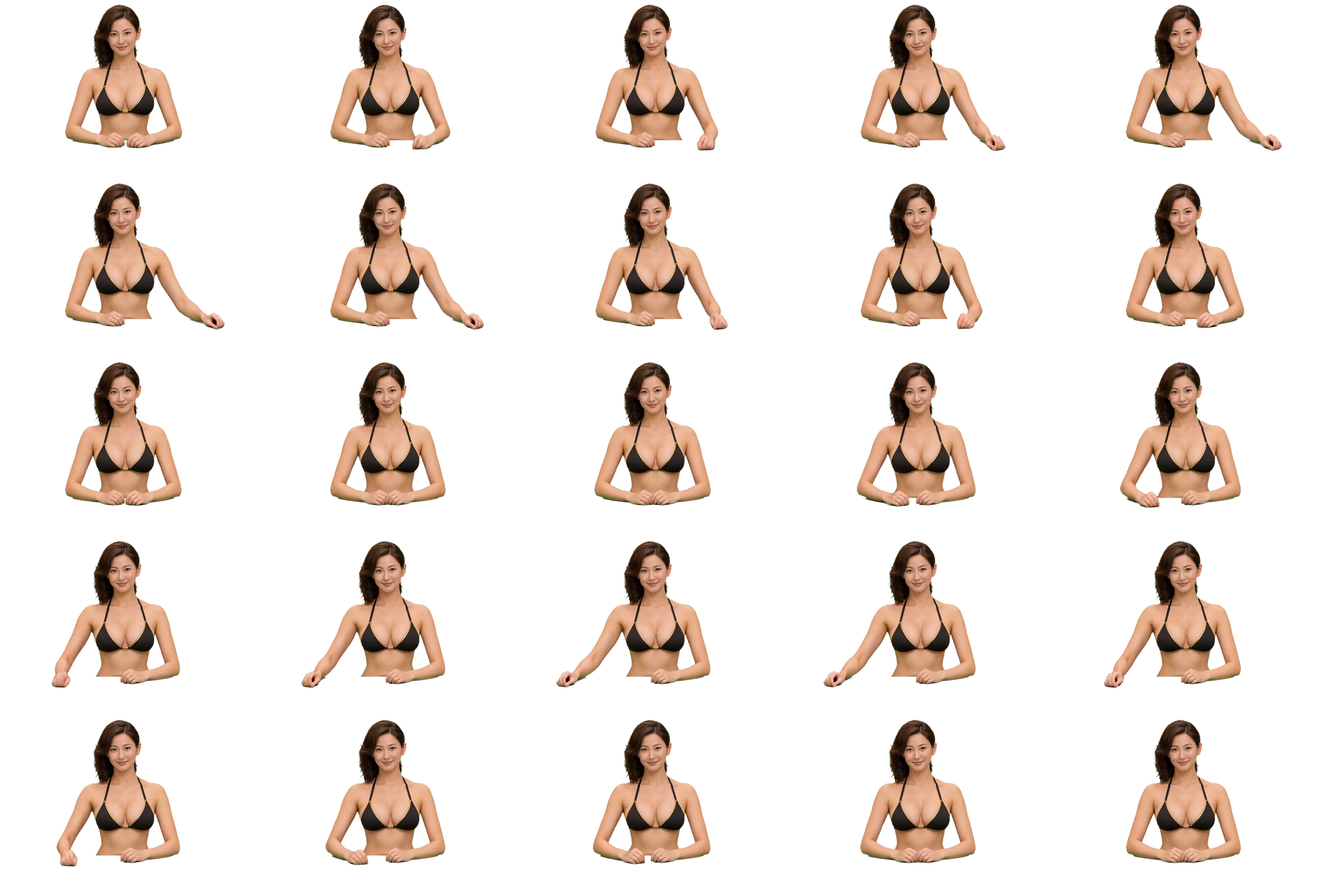
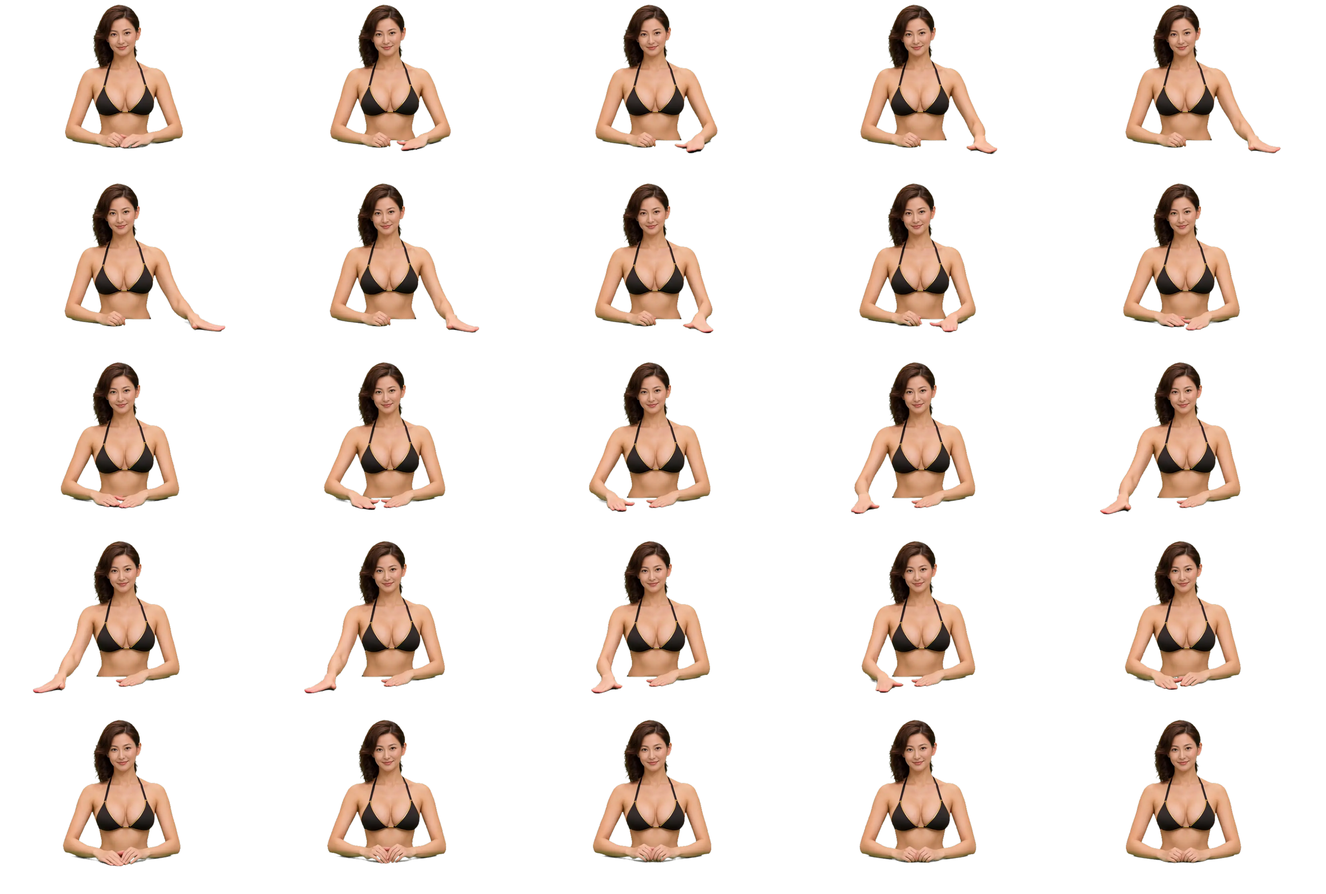
Dealers: new deal clips for all seven, card path re-measured (v0.24.3)
Claude-Session: https://claude.ai/code/session_011oS1hF5NfJ3QT3qcWv1JPQ

diff --git a/casino/index.html b/casino/index.html
@@ -2151,12 +2151,12 @@ html.ios-app .toasts { top: calc(env(safe-area-inset-top, 0px) + 86px); }
         <button class="gtile" type="button" id="lobbySlots"><span class="ico"><svg viewBox="0 0 48 48" aria-hidden="true" fill="none" stroke="currentColor" stroke-width="2.2" stroke-linecap="round" stroke-linejoin="round"><rect x="7" y="8" width="30" height="34" rx="4"/><rect x="11" y="15" width="22" height="13" rx="2"/><path d="M18.3 15v13M25.7 15v13"/><path d="M13 19h3.5l-2.2 6M20.3 19h3.5l-2.2 6M27.6 19h3.5l-2.2 6" stroke-width="1.6"/><path d="M41 12v14M41 26h-4"/><circle cx="41" cy="10" r="2.6" fill="currentColor"/><path d="M13 34h18" /></svg></span><b>老虎机<span class="lh-x">系列</span></b><small>龙腾财宝 · 宝石瀑布 · 水果转轮 · 深海寻宝 · 雷神之锤 · 幸运 7</small></button>
       </div>
     </div>
-    <div class="lfoot"><button class="verbtn" type="button" data-rules="verSheet">俱乐部 <b>v0.24.2</b> · 更新记录</button></div>
+    <div class="lfoot"><button class="verbtn" type="button" data-rules="verSheet">俱乐部 <b>v0.24.3</b> · 更新记录</button></div>
   </section>
 
   <div class="sheet" id="verSheet" hidden><div class="sheet-in" role="dialog" aria-label="更新记录">
     <div class="sheet-head"><h3>更新记录</h3><span class="note">大改版 +0.1.0 · 小版本 +0.0.1</span><button class="iconbtn" type="button" data-close aria-label="关闭">×</button></div>
-    <ol class="vlist"><li><b>v0.24.2</b><span>最后一局：荷官伸手从牌靴抽出黑色 LAST HAND 切牌卡，放在桌子左边，卡片平贴桌面，和闲、庄格子同一个角度（百家乐、龙虎、联机百家乐）</span></li><li><b>v0.24.1</b><span>荷官的腰和桌子贴合：桌面一直延伸到荷官身前，双手自然放在桌面上；联机百家乐的荷官画面放大（下注区、路单和玩家列更紧凑）</span></li><li><b>v0.24.0</b> <i class="vmaj">大改版</i><span>高清真人荷官回归：百家乐 A–D 桌、龙虎两桌和联机百家乐的 7 位荷官全部换成高清绿幕画面，待机眨眼，亲手从牌靴发牌、把牌推到闲庄格子，开牌后一扫收牌，牌跟着手走；身体不再抖动、闪烁或出白边</span></li><li><b>v0.23.0</b> <i class="vmaj">大改版</i><span>麻将新玩法「三人快打（飞）」：3 人、84 张（筒子、字牌、16 张花、4 张百搭飞），5 番起胡；飞可以代替碰、吃，摸到被代替的牌自动起飞，打出飞叫囤飞 +1 番；咬到、花杠、杠马上收钱并加爆，结算 = 番 × 番倍数 × 爆 × 1.5 / 2。所有麻将玩法加入碰、吃、杠、胡、自摸的大字动画</span></li><li><b>v0.22.11</b><span>大厅、百家乐、龙虎和联机百家乐上方加入滚动公告，按 × 可以关闭</span></li><li><b>v0.22.10</b><span>为了给大家更好的观感，真人荷官暂时下桌休息，全新高清版本已经在制作中，敬请期待！在此期间，百家乐、龙虎和联机百家乐会直接显示牌局画面，路单也一直摊开，开牌一目了然。</span></li><li><b>v0.22.9</b><span>荷官动画：清掉动画图的半透明杂点和浅色白边，不再闪烁；桌子凹口逐格贴着荷官的腰线，不再露出空隙或穿过桌面；待机时大多只眨眼，转头少很多</span></li><li><b>v0.22.8</b><span>修复荷官待机时露出相邻画面的问题。</span></li><li><b>v0.22.7</b><span>百家乐与龙虎荷官使用新版动画，龙虎采用同款荷官桌面、路单与牌局布局。</span></li><li><b>v0.22.6</b><span>修正：百家乐荷官动起来时闪烁和白边（清掉动画图里的半透明杂点和浅色描边；发牌、收牌两组动画预先载好，切换不再空白一下）</span></li><li><b>v0.22.5</b><span>百家乐：桌上的牌和闲、庄格子用同一个透视角度，牌平贴在格子里；小屏幕上牌也完整露出</span></li><li><b>v0.22.4</b><span>百家乐：去掉「试发一局」，倒数和牌局状态移到荷官画面右上角，删掉中间那一行让荷官画面更大；桌子凹口改成圆角</span></li><li><b>v0.22.3</b><span>百家乐牌桌改成发牌台形状：两侧桌面延伸到荷官身后，中间凹进去让荷官站在里面；闲、庄格子和牌都跟桌面同一个透视角度</span></li><li><b>v0.22.2</b><span>百家乐和联机百家乐：桌边、牌靴和闲庄牌区对齐荷官的双手，任何屏幕大小都不会错位；荷官画面按屏幕自动调整高度，整页一屏放得下；联机房的聊天列恢复显示</span></li><li><b>v0.22.1</b><span>修正：十三张结算后四家名牌旁的输赢不会消失；联机百家乐开完牌马上更新每个人的输赢</span></li><li><b>v0.22.0</b> <i class="vmaj">大改版</i><span>新游戏「麻将」：港式、四川血战到底、台湾十六张，可练习对 AI 或联机；十三张改成立体牌桌：推荐摆法、牌型快捷键、对调、开始比牌、打枪瞄准开枪、本局结算明细</span></li><li><b>v0.21.2</b><span>百家乐 A、B、C、D 桌及联机房新增五位荷官，发牌和收牌使用每秒 24 张画面，牌局与路单自动翻转。</span></li><li><b>v0.21.1</b><span>百家乐加入双手发牌和右侧牌靴，荷官桌面与牌局同步显示白色牌面。老虎机重绘机台，并更新吉祥物待机和奖励动画。</span></li><li><b>v0.21.0</b> <i class="vmaj">大改版</i><span>新游戏「十三张」：练习桌对 3 个 AI，或开房间和朋友联机（2–4 人，空位 AI 补上）；点选摆牌、自动摆牌、报到、逐道比牌、打枪、全垒打</span></li><li><b>v0.20.2</b><span>百家乐、龙虎、联机百家乐：结果出来 1.5 秒后把牌收成一叠往左边滑走，然后才开始倒数；其他牌桌在下一局发牌前收牌</span></li><li><b>v0.20.1</b><span>联机百家乐加上大眼仔、小路、曱甴路、闲庄和局数，以及 P / B 问路</span></li><li><b>v0.20.0</b><span>老虎机：转轴停下有弹跳和闪光；差一个就进特殊奖励时最后几列放慢发光；大奖动画随金额升级（大奖→巨奖→超级巨奖→史诗大奖）并按机器换颜色；待机时转轴窗口有扫光，深海有鱼影游过，水果机飘起柠檬橙子片</span></li><li><b>v0.19.1</b><span>大奖画面的雷神和金龙去掉白边并一直循环动；雷神免费旋转时标题不再跟着移动</span></li><li><b>v0.19.0</b><span>每台老虎机有自己的中奖特效：金龙喷火球、宝石迸出碎光、水果溅出果汁、深海涟漪和气泡、幸运 7 霓虹烟花；大奖再加全屏特效</span></li><li><b>v0.18.9</b><span>所有老虎机标题改成印在机身上的金属渐层字，不再有方框</span></li><li><b>v0.18.8</b><span>金龙和雷神插画放大，贴在转轴边框上方；龙腾财宝四个头奖排成一行</span></li><li><b>v0.18.7</b><span>优化：龙腾财宝、雷神之锤自动放进一屏；待机动画缩小约 2/3，打开机台才下载；德州摊牌写出完整牌型与踢脚、亮出赢家的 5 张牌；整理重复程序</span></li><li><b>v0.18.6</b><span>雷神之锤：雷球被闪电劈中后才亮起并显示倍数</span></li><li><b>v0.18.5</b><span>金龙和雷神换上新版待机动画与 1.5 秒逐帧奖励动画。</span></li><li><b>v0.18.4</b><span>金龙和雷神改成待机动画，中奖时才播放特殊动画</span></li><li><b>v0.18.3</b><span>正面雷神逐帧挥锤，金龙与雷神加入特殊奖励动画。</span></li><li><b>v0.18.2</b><span>金龙与雷神移到转轴上方，恢复转轴尺寸，加入金龙蜿蜒吐焰与雷神挥锤动画。</span></li><li><b>v0.18.1</b><span>重绘「龙腾财宝」和「雷神之锤」机台，加入金龙游动、雷神守望和旋转特效。</span></li><li><b>v0.18.0</b> <i class="vmaj">大改版</i><span>新老虎机「雷神之锤」：6×5 任意位置中奖、连环消除、雷球倍数 ×500、免费旋转总倍数累积、买免费旋转、加注，闪电特效</span></li><li><b>v0.17.2</b><span>百家乐、龙虎、联机百家乐：牌靴快用完时宣布「最后一局」（动画提醒），那一局结束后才换牌靴</span></li><li><b>v0.17.1</b><span>背景音乐全部换成爵士乐（8 首）；可以从手机加入自己的歌曲</span></li><li><b>v0.17.0</b> <i class="vmaj">大改版</i><span>德州联机房：所有人按「准备」才开始；AI 荷官发牌动画（底牌一张张发到每个座位，公共牌飞到桌上翻开）</span></li><li><b>v0.16.4</b><span>老虎机的免费旋转和奖金转盘要玩家点「开始」才开始（自动旋转时 2 秒后自动开始）；修正水果转轮奖金转盘在手机上不转</span></li><li><b>v0.16.3</b><span>水果转轮奖金转盘、深海寻宝免费旋转更容易触发（回报率仍约 96%）</span></li><li><b>v0.16.2</b><span>修正：iPhone 上背景音乐音量调节无效</span></li><li><b>v0.16.1</b><span>联机房间和练习桌加上开始 / 暂停（房主控制）</span></li><li><b>v0.16.0</b> <i class="vmaj">大改版</i><span>背景音乐（5 首赌场酒廊爵士，可开关、选曲、调音量）；轮盘、老虎机、金币、宝石的真实音效</span></li><li><b>v0.15.1</b><span>牛牛：对子比点数大，都是对子就比对子大小</span></li><li><b>v0.15.0</b> <i class="vmaj">大改版</i><span>加入真实录音音效：筹码、发牌、放牌、洗牌、派彩筹码声（Kenney Casino Audio，CC0）</span></li><li><b>v0.14.9</b><span>音效重做：筹码、发牌、翻牌、倒数、转轮、中奖都更像真实的声音，加上房间回音</span></li><li><b>v0.14.8</b><span>大厅换牌靴时，动画结束后才显示烧了几张</span></li><li><b>v0.14.7</b><span>修正：联机百家乐房主画面的中奖框不会熄灭、路单比牌先出</span></li><li><b>v0.14.6</b><span>清理不再使用的旧样式和旧存档转换代码</span></li><li><b>v0.14.5</b><span>龙虎的下三路和问路也改成红 / 金</span></li><li><b>v0.14.4</b><span>修正：联机百家乐和大厅里的牌桌，要等牌发完才公布结果、路单和输赢</span></li><li><b>v0.14.3</b><span>龙虎改成龙红、虎金；和与同花和合成一个上下对半的青色圆</span></li><li><b>v0.14.2</b><span>龙虎加上问路（预测）按钮；龙虎点数直接显示 A、J、Q、K</span></li><li><b>v0.14.1</b><span>联机房间可以打字聊天，有未读提示</span></li><li><b>v0.14.0</b> <i class="vmaj">大改版</i><span>德州练习桌：一个人和 1–8 个 AI 对打；联机合并成一个入口，输入房间号自动认出游戏；左上角固定的金色「大厅」按钮</span></li><li><b>v0.13.0</b> <i class="vmaj">大改版</i><span>德州扑克联机房：玩家对玩家、AI 荷官发牌、最多 9 人、无限注、边池、抽水 5%；百家乐和龙虎换桌时桌号直接写在牌桌中间；修正离开联机房时筹码退两次</span></li><li><b>v0.12.0</b> <i class="vmaj">大改版</i><span>联机房间：开房间拿 6 位房间号，和朋友同桌玩百家乐，同一副牌、同一条路，看得到彼此的下注和输赢，可以发表情</span></li><li><b>v0.11.1</b><span>牛牛加入对子（组成牛点的两张是对子赔 2 倍）；大厅恢复完整排版，可以上下滑动</span></li><li><b>v0.11.0</b> <i class="vmaj">大改版</i><span>新老虎机「深海寻宝」：潜水员收集宝箱、升级倍数到 ×10；每台老虎机加上跑马灯、背景特效和中奖金币</span></li><li><b>v0.10.0</b> <i class="vmaj">大改版</i><span>新游戏：龙虎（2 桌）、牛牛、老虎机「水果转轮」；换牌靴动画约 20 秒；老虎机按钮显示当前机台图标，左右滑动只换机台</span></li><li><b>v0.9.3</b><span>主动洗牌时大厅也能看到洗牌、装靴、烧牌过程</span></li><li><b>v0.9.2</b><span>发牌中也可以换桌；大厅清楚显示烧牌张数</span></li><li><b>v0.9.1</b><span>百家乐和老虎机滑动时画面跟手切换；大厅显示换牌靴动画</span></li><li><b>v0.9.0</b> <i class="vmaj">大改版</i><span>新老虎机「宝石瀑布」：6×5 任意位置中奖、连环消除、倍数阶梯</span></li><li><b>v0.8.10</b><span>加上版本号与更新记录</span></li><li><b>v0.8.9</b><span>金币锁定重转更易出金币，转动更久</span></li><li><b>v0.8.8</b><span>金币锁定更常出现，金币金额调低</span></li><li><b>v0.8.7</b><span>GRAND、MAJOR 数字滚动；大厅选机弹窗</span></li><li><b>v0.8.6</b><span>龙腾财宝中奖率提高；选机弹窗</span></li><li><b>v0.8.5</b><span>金币锁定由玩家旋转，空格有转轮效果</span></li><li><b>v0.8.4</b><span>老虎机直接选每局金额</span></li><li><b>v0.8.3</b><span>老虎机合并为系列；大奖动画 20 秒</span></li><li><b>v0.8.2</b><span>老虎机符号重绘为写实风格</span></li><li><b>v0.8.1</b><span>老虎机加速；大奖动画</span></li><li><b>v0.8.0</b> <i class="vmaj">大改版</i><span>新老虎机「龙腾财宝」：243 路、金币锁定、四级头奖</span></li><li><b>v0.7.2</b><span>老虎机自动旋转</span></li><li><b>v0.7.1</b><span>去掉重置 10,000 按钮</span></li><li><b>v0.7.0</b> <i class="vmaj">大改版</i><span>新游戏：德州扑克、老虎机；滑动换桌；大厅图标</span></li><li><b>v0.6.2</b><span>离开牌桌也照常开局并提示结果</span></li><li><b>v0.6.1</b><span>改名「俱乐部」；换牌靴动画与烧牌</span></li><li><b>v0.6.0</b> <i class="vmaj">大改版</i><span>黑金配色与新图标</span></li><li><b>v0.5.2</b><span>每个游戏加「重复」下注</span></li><li><b>v0.5.1</b><span>+100 万余额按钮；10k、100k 筹码</span></li><li><b>v0.5.0</b> <i class="vmaj">大改版</i><span>所有游戏统一界面；百家乐 4 桌；新游戏三张牌</span></li><li><b>v0.4.4</b><span>修 iPhone 主屏幕底部被裁</span></li><li><b>v0.4.3</b><span>修 iPhone 主屏幕顶部被挡</span></li><li><b>v0.4.2</b><span>21点也从牌靴发牌；修主屏幕位置</span></li><li><b>v0.4.1</b><span>音效；发牌从牌靴飞出并翻牌；筹码居中</span></li><li><b>v0.4.0</b> <i class="vmaj">大改版</i><span>百家乐改成真人桌布局：下三路、问路、龙宝、完美对子</span></li><li><b>v0.3.1</b><span>百家乐改为 15 秒自动开局</span></li><li><b>v0.3.0</b> <i class="vmaj">大改版</i><span>做成可加到主屏幕的 App（离线可用）</span></li><li><b>v0.2.1</b><span>大厅显示路单、路单保存、洗牌按钮</span></li><li><b>v0.2.0</b> <i class="vmaj">大改版</i><span>重新布局：整个画面一屏不用滑动</span></li><li><b>v0.1.4</b><span>21点投降；路单移到上方；筹码栏固定底部</span></li><li><b>v0.1.3</b><span>下注处显示筹码叠；百家乐 30 秒自动开局</span></li><li><b>v0.1.2</b><span>轮盘加分注、街注、角注、线注；修竖屏比例</span></li><li><b>v0.1.1</b><span>百家乐不下注也可发牌，改为大路</span></li><li><b>v0.1.0</b> <i class="vmaj">大改版</i><span>首版：百家乐、21点、轮盘，虚拟筹码</span></li></ol>
+    <ol class="vlist"><li><b>v0.24.3</b><span>7 位荷官换上新版发牌动作：右手到牌靴取牌，把牌放到身前桌面再推进闲、庄（龙、虎）格子，牌跟着手走</span></li><li><b>v0.24.2</b><span>最后一局：荷官伸手从牌靴抽出黑色 LAST HAND 切牌卡，放在桌子左边，卡片平贴桌面，和闲、庄格子同一个角度（百家乐、龙虎、联机百家乐）</span></li><li><b>v0.24.1</b><span>荷官的腰和桌子贴合：桌面一直延伸到荷官身前，双手自然放在桌面上；联机百家乐的荷官画面放大（下注区、路单和玩家列更紧凑）</span></li><li><b>v0.24.0</b> <i class="vmaj">大改版</i><span>高清真人荷官回归：百家乐 A–D 桌、龙虎两桌和联机百家乐的 7 位荷官全部换成高清绿幕画面，待机眨眼，亲手从牌靴发牌、把牌推到闲庄格子，开牌后一扫收牌，牌跟着手走；身体不再抖动、闪烁或出白边</span></li><li><b>v0.23.0</b> <i class="vmaj">大改版</i><span>麻将新玩法「三人快打（飞）」：3 人、84 张（筒子、字牌、16 张花、4 张百搭飞），5 番起胡；飞可以代替碰、吃，摸到被代替的牌自动起飞，打出飞叫囤飞 +1 番；咬到、花杠、杠马上收钱并加爆，结算 = 番 × 番倍数 × 爆 × 1.5 / 2。所有麻将玩法加入碰、吃、杠、胡、自摸的大字动画</span></li><li><b>v0.22.11</b><span>大厅、百家乐、龙虎和联机百家乐上方加入滚动公告，按 × 可以关闭</span></li><li><b>v0.22.10</b><span>为了给大家更好的观感，真人荷官暂时下桌休息，全新高清版本已经在制作中，敬请期待！在此期间，百家乐、龙虎和联机百家乐会直接显示牌局画面，路单也一直摊开，开牌一目了然。</span></li><li><b>v0.22.9</b><span>荷官动画：清掉动画图的半透明杂点和浅色白边，不再闪烁；桌子凹口逐格贴着荷官的腰线，不再露出空隙或穿过桌面；待机时大多只眨眼，转头少很多</span></li><li><b>v0.22.8</b><span>修复荷官待机时露出相邻画面的问题。</span></li><li><b>v0.22.7</b><span>百家乐与龙虎荷官使用新版动画，龙虎采用同款荷官桌面、路单与牌局布局。</span></li><li><b>v0.22.6</b><span>修正：百家乐荷官动起来时闪烁和白边（清掉动画图里的半透明杂点和浅色描边；发牌、收牌两组动画预先载好，切换不再空白一下）</span></li><li><b>v0.22.5</b><span>百家乐：桌上的牌和闲、庄格子用同一个透视角度，牌平贴在格子里；小屏幕上牌也完整露出</span></li><li><b>v0.22.4</b><span>百家乐：去掉「试发一局」，倒数和牌局状态移到荷官画面右上角，删掉中间那一行让荷官画面更大；桌子凹口改成圆角</span></li><li><b>v0.22.3</b><span>百家乐牌桌改成发牌台形状：两侧桌面延伸到荷官身后，中间凹进去让荷官站在里面；闲、庄格子和牌都跟桌面同一个透视角度</span></li><li><b>v0.22.2</b><span>百家乐和联机百家乐：桌边、牌靴和闲庄牌区对齐荷官的双手，任何屏幕大小都不会错位；荷官画面按屏幕自动调整高度，整页一屏放得下；联机房的聊天列恢复显示</span></li><li><b>v0.22.1</b><span>修正：十三张结算后四家名牌旁的输赢不会消失；联机百家乐开完牌马上更新每个人的输赢</span></li><li><b>v0.22.0</b> <i class="vmaj">大改版</i><span>新游戏「麻将」：港式、四川血战到底、台湾十六张，可练习对 AI 或联机；十三张改成立体牌桌：推荐摆法、牌型快捷键、对调、开始比牌、打枪瞄准开枪、本局结算明细</span></li><li><b>v0.21.2</b><span>百家乐 A、B、C、D 桌及联机房新增五位荷官，发牌和收牌使用每秒 24 张画面，牌局与路单自动翻转。</span></li><li><b>v0.21.1</b><span>百家乐加入双手发牌和右侧牌靴，荷官桌面与牌局同步显示白色牌面。老虎机重绘机台，并更新吉祥物待机和奖励动画。</span></li><li><b>v0.21.0</b> <i class="vmaj">大改版</i><span>新游戏「十三张」：练习桌对 3 个 AI，或开房间和朋友联机（2–4 人，空位 AI 补上）；点选摆牌、自动摆牌、报到、逐道比牌、打枪、全垒打</span></li><li><b>v0.20.2</b><span>百家乐、龙虎、联机百家乐：结果出来 1.5 秒后把牌收成一叠往左边滑走，然后才开始倒数；其他牌桌在下一局发牌前收牌</span></li><li><b>v0.20.1</b><span>联机百家乐加上大眼仔、小路、曱甴路、闲庄和局数，以及 P / B 问路</span></li><li><b>v0.20.0</b><span>老虎机：转轴停下有弹跳和闪光；差一个就进特殊奖励时最后几列放慢发光；大奖动画随金额升级（大奖→巨奖→超级巨奖→史诗大奖）并按机器换颜色；待机时转轴窗口有扫光，深海有鱼影游过，水果机飘起柠檬橙子片</span></li><li><b>v0.19.1</b><span>大奖画面的雷神和金龙去掉白边并一直循环动；雷神免费旋转时标题不再跟着移动</span></li><li><b>v0.19.0</b><span>每台老虎机有自己的中奖特效：金龙喷火球、宝石迸出碎光、水果溅出果汁、深海涟漪和气泡、幸运 7 霓虹烟花；大奖再加全屏特效</span></li><li><b>v0.18.9</b><span>所有老虎机标题改成印在机身上的金属渐层字，不再有方框</span></li><li><b>v0.18.8</b><span>金龙和雷神插画放大，贴在转轴边框上方；龙腾财宝四个头奖排成一行</span></li><li><b>v0.18.7</b><span>优化：龙腾财宝、雷神之锤自动放进一屏；待机动画缩小约 2/3，打开机台才下载；德州摊牌写出完整牌型与踢脚、亮出赢家的 5 张牌；整理重复程序</span></li><li><b>v0.18.6</b><span>雷神之锤：雷球被闪电劈中后才亮起并显示倍数</span></li><li><b>v0.18.5</b><span>金龙和雷神换上新版待机动画与 1.5 秒逐帧奖励动画。</span></li><li><b>v0.18.4</b><span>金龙和雷神改成待机动画，中奖时才播放特殊动画</span></li><li><b>v0.18.3</b><span>正面雷神逐帧挥锤，金龙与雷神加入特殊奖励动画。</span></li><li><b>v0.18.2</b><span>金龙与雷神移到转轴上方，恢复转轴尺寸，加入金龙蜿蜒吐焰与雷神挥锤动画。</span></li><li><b>v0.18.1</b><span>重绘「龙腾财宝」和「雷神之锤」机台，加入金龙游动、雷神守望和旋转特效。</span></li><li><b>v0.18.0</b> <i class="vmaj">大改版</i><span>新老虎机「雷神之锤」：6×5 任意位置中奖、连环消除、雷球倍数 ×500、免费旋转总倍数累积、买免费旋转、加注，闪电特效</span></li><li><b>v0.17.2</b><span>百家乐、龙虎、联机百家乐：牌靴快用完时宣布「最后一局」（动画提醒），那一局结束后才换牌靴</span></li><li><b>v0.17.1</b><span>背景音乐全部换成爵士乐（8 首）；可以从手机加入自己的歌曲</span></li><li><b>v0.17.0</b> <i class="vmaj">大改版</i><span>德州联机房：所有人按「准备」才开始；AI 荷官发牌动画（底牌一张张发到每个座位，公共牌飞到桌上翻开）</span></li><li><b>v0.16.4</b><span>老虎机的免费旋转和奖金转盘要玩家点「开始」才开始（自动旋转时 2 秒后自动开始）；修正水果转轮奖金转盘在手机上不转</span></li><li><b>v0.16.3</b><span>水果转轮奖金转盘、深海寻宝免费旋转更容易触发（回报率仍约 96%）</span></li><li><b>v0.16.2</b><span>修正：iPhone 上背景音乐音量调节无效</span></li><li><b>v0.16.1</b><span>联机房间和练习桌加上开始 / 暂停（房主控制）</span></li><li><b>v0.16.0</b> <i class="vmaj">大改版</i><span>背景音乐（5 首赌场酒廊爵士，可开关、选曲、调音量）；轮盘、老虎机、金币、宝石的真实音效</span></li><li><b>v0.15.1</b><span>牛牛：对子比点数大，都是对子就比对子大小</span></li><li><b>v0.15.0</b> <i class="vmaj">大改版</i><span>加入真实录音音效：筹码、发牌、放牌、洗牌、派彩筹码声（Kenney Casino Audio，CC0）</span></li><li><b>v0.14.9</b><span>音效重做：筹码、发牌、翻牌、倒数、转轮、中奖都更像真实的声音，加上房间回音</span></li><li><b>v0.14.8</b><span>大厅换牌靴时，动画结束后才显示烧了几张</span></li><li><b>v0.14.7</b><span>修正：联机百家乐房主画面的中奖框不会熄灭、路单比牌先出</span></li><li><b>v0.14.6</b><span>清理不再使用的旧样式和旧存档转换代码</span></li><li><b>v0.14.5</b><span>龙虎的下三路和问路也改成红 / 金</span></li><li><b>v0.14.4</b><span>修正：联机百家乐和大厅里的牌桌，要等牌发完才公布结果、路单和输赢</span></li><li><b>v0.14.3</b><span>龙虎改成龙红、虎金；和与同花和合成一个上下对半的青色圆</span></li><li><b>v0.14.2</b><span>龙虎加上问路（预测）按钮；龙虎点数直接显示 A、J、Q、K</span></li><li><b>v0.14.1</b><span>联机房间可以打字聊天，有未读提示</span></li><li><b>v0.14.0</b> <i class="vmaj">大改版</i><span>德州练习桌：一个人和 1–8 个 AI 对打；联机合并成一个入口，输入房间号自动认出游戏；左上角固定的金色「大厅」按钮</span></li><li><b>v0.13.0</b> <i class="vmaj">大改版</i><span>德州扑克联机房：玩家对玩家、AI 荷官发牌、最多 9 人、无限注、边池、抽水 5%；百家乐和龙虎换桌时桌号直接写在牌桌中间；修正离开联机房时筹码退两次</span></li><li><b>v0.12.0</b> <i class="vmaj">大改版</i><span>联机房间：开房间拿 6 位房间号，和朋友同桌玩百家乐，同一副牌、同一条路，看得到彼此的下注和输赢，可以发表情</span></li><li><b>v0.11.1</b><span>牛牛加入对子（组成牛点的两张是对子赔 2 倍）；大厅恢复完整排版，可以上下滑动</span></li><li><b>v0.11.0</b> <i class="vmaj">大改版</i><span>新老虎机「深海寻宝」：潜水员收集宝箱、升级倍数到 ×10；每台老虎机加上跑马灯、背景特效和中奖金币</span></li><li><b>v0.10.0</b> <i class="vmaj">大改版</i><span>新游戏：龙虎（2 桌）、牛牛、老虎机「水果转轮」；换牌靴动画约 20 秒；老虎机按钮显示当前机台图标，左右滑动只换机台</span></li><li><b>v0.9.3</b><span>主动洗牌时大厅也能看到洗牌、装靴、烧牌过程</span></li><li><b>v0.9.2</b><span>发牌中也可以换桌；大厅清楚显示烧牌张数</span></li><li><b>v0.9.1</b><span>百家乐和老虎机滑动时画面跟手切换；大厅显示换牌靴动画</span></li><li><b>v0.9.0</b> <i class="vmaj">大改版</i><span>新老虎机「宝石瀑布」：6×5 任意位置中奖、连环消除、倍数阶梯</span></li><li><b>v0.8.10</b><span>加上版本号与更新记录</span></li><li><b>v0.8.9</b><span>金币锁定重转更易出金币，转动更久</span></li><li><b>v0.8.8</b><span>金币锁定更常出现，金币金额调低</span></li><li><b>v0.8.7</b><span>GRAND、MAJOR 数字滚动；大厅选机弹窗</span></li><li><b>v0.8.6</b><span>龙腾财宝中奖率提高；选机弹窗</span></li><li><b>v0.8.5</b><span>金币锁定由玩家旋转，空格有转轮效果</span></li><li><b>v0.8.4</b><span>老虎机直接选每局金额</span></li><li><b>v0.8.3</b><span>老虎机合并为系列；大奖动画 20 秒</span></li><li><b>v0.8.2</b><span>老虎机符号重绘为写实风格</span></li><li><b>v0.8.1</b><span>老虎机加速；大奖动画</span></li><li><b>v0.8.0</b> <i class="vmaj">大改版</i><span>新老虎机「龙腾财宝」：243 路、金币锁定、四级头奖</span></li><li><b>v0.7.2</b><span>老虎机自动旋转</span></li><li><b>v0.7.1</b><span>去掉重置 10,000 按钮</span></li><li><b>v0.7.0</b> <i class="vmaj">大改版</i><span>新游戏：德州扑克、老虎机；滑动换桌；大厅图标</span></li><li><b>v0.6.2</b><span>离开牌桌也照常开局并提示结果</span></li><li><b>v0.6.1</b><span>改名「俱乐部」；换牌靴动画与烧牌</span></li><li><b>v0.6.0</b> <i class="vmaj">大改版</i><span>黑金配色与新图标</span></li><li><b>v0.5.2</b><span>每个游戏加「重复」下注</span></li><li><b>v0.5.1</b><span>+100 万余额按钮；10k、100k 筹码</span></li><li><b>v0.5.0</b> <i class="vmaj">大改版</i><span>所有游戏统一界面；百家乐 4 桌；新游戏三张牌</span></li><li><b>v0.4.4</b><span>修 iPhone 主屏幕底部被裁</span></li><li><b>v0.4.3</b><span>修 iPhone 主屏幕顶部被挡</span></li><li><b>v0.4.2</b><span>21点也从牌靴发牌；修主屏幕位置</span></li><li><b>v0.4.1</b><span>音效；发牌从牌靴飞出并翻牌；筹码居中</span></li><li><b>v0.4.0</b> <i class="vmaj">大改版</i><span>百家乐改成真人桌布局：下三路、问路、龙宝、完美对子</span></li><li><b>v0.3.1</b><span>百家乐改为 15 秒自动开局</span></li><li><b>v0.3.0</b> <i class="vmaj">大改版</i><span>做成可加到主屏幕的 App（离线可用）</span></li><li><b>v0.2.1</b><span>大厅显示路单、路单保存、洗牌按钮</span></li><li><b>v0.2.0</b> <i class="vmaj">大改版</i><span>重新布局：整个画面一屏不用滑动</span></li><li><b>v0.1.4</b><span>21点投降；路单移到上方；筹码栏固定底部</span></li><li><b>v0.1.3</b><span>下注处显示筹码叠；百家乐 30 秒自动开局</span></li><li><b>v0.1.2</b><span>轮盘加分注、街注、角注、线注；修竖屏比例</span></li><li><b>v0.1.1</b><span>百家乐不下注也可发牌，改为大路</span></li><li><b>v0.1.0</b> <i class="vmaj">大改版</i><span>首版：百家乐、21点、轮盘，虚拟筹码</span></li></ol>
     <p class="note" style="margin-top:10px">音乐与音效的作者和授权：点右上角 ♪ 查看。</p>
   </div></div>
 
@@ -3976,23 +3976,24 @@ html.ios-app .toasts { top: calc(env(safe-area-inset-top, 0px) + 86px); }
   // (25 frames each over one second, drawn over the whole canvas). The canvas is 12% wider than the portrait box so her
   // reaching hands stay inside. Frame space 1183 × 798; cut = the far edge of the table in her video (row of 266): the felt comes up to it and her
   // forearms and hands rest on top of it, so there is never a gap between her waist and the table.
-  // hands: [clip frame, x, y] fractions of the canvas — the card leaves the shoe at her right fingertips and is carried left;
+  // hands: [clip frame, x, y] fractions of the canvas — the card leaves the shoe at her right fingertips and is laid down
+  // where her hand presses it onto the felt, then slides into its box;
   // shoe: fraction of the portrait box; sweep: her left fingertips while she collects, frame by frame.
   const DEALER_PERSON = true;
   const DEALER_V3 = Object.fromEntries(Object.entries({
-    A: { cut: 209, art: "a", n: 12, eye: [467, 70, 165, 136], hands: [[5, 0.851, 0.841], [11, 0.499, 0.858], [17, 0.148, 0.876]], shoe: [0.893, 0.841],
+    A: { cut: 209, art: "a", n: 12, eye: [467, 70, 165, 136], hands: [[5, 0.854, 0.848], [9, 0.572, 0.869], [13, 0.29, 0.889]], shoe: [0.896, 0.848],
       sweep: [[7, 0.413, 0.877], [8, 0.346, 0.885], [9, 0.263, 0.885], [10, 0.18, 0.885], [11, 0.104, 0.877], [12, 0.052, 0.87], [13, 0.018, 0.863], [14, 0.008, 0.859], [15, 0.007, 0.859], [16, 0.012, 0.856]] },
-    B: { cut: 209, art: "b", n: 12, eye: [481, 128, 115, 48], hands: [[5, 0.846, 0.809], [11, 0.496, 0.822], [17, 0.146, 0.835]], shoe: [0.887, 0.809],
+    B: { cut: 209, art: "b", n: 12, eye: [481, 128, 115, 48], hands: [[5, 0.849, 0.831], [10, 0.5, 0.854], [15, 0.15, 0.876]], shoe: [0.891, 0.831],
       sweep: [[7, 0.398, 0.867], [8, 0.336, 0.874], [9, 0.263, 0.876], [10, 0.19, 0.876], [11, 0.124, 0.872], [12, 0.078, 0.864], [13, 0.047, 0.86], [14, 0.038, 0.857], [15, 0.037, 0.857]] },
-    C: { cut: 210.3, art: "c", n: 12, eye: [491, 123, 117, 43], hands: [[5, 0.849, 0.806], [12, 0.493, 0.818], [18, 0.136, 0.829]], shoe: [0.891, 0.806],
+    C: { cut: 210.3, art: "c", n: 12, eye: [491, 123, 117, 43], hands: [[5, 0.847, 0.793], [12, 0.597, 0.844], [18, 0.346, 0.894]], shoe: [0.889, 0.793],
       sweep: [[7, 0.414, 0.875], [8, 0.351, 0.877], [9, 0.247, 0.88], [10, 0.181, 0.877], [11, 0.1, 0.868], [12, 0.058, 0.861], [13, 0.027, 0.854], [14, 0.021, 0.854], [15, 0.021, 0.854]] },
-    D: { cut: 209.4, art: "d", n: 12, eye: [490, 148, 120, 44], hands: [[5, 0.883, 0.831], [12, 0.498, 0.844], [18, 0.114, 0.856]], shoe: [0.929, 0.831],
+    D: { cut: 209.4, art: "d", n: 12, eye: [490, 148, 120, 44], hands: [[6, 0.915, 0.812], [11, 0.617, 0.851], [16, 0.319, 0.889]], shoe: [0.964, 0.812],
       sweep: [[7, 0.439, 0.87], [8, 0.379, 0.875], [9, 0.28, 0.88], [10, 0.215, 0.877], [11, 0.132, 0.873], [12, 0.088, 0.868], [13, 0.049, 0.861], [14, 0.039, 0.856], [15, 0.036, 0.856], [16, 0.049, 0.849]] },
-    ROOM: { cut: 208.1, art: "room", n: 12, eye: [495, 128, 119, 42], hands: [[4, 0.843, 0.81], [10, 0.493, 0.824], [17, 0.143, 0.837]], shoe: [0.884, 0.81],
+    ROOM: { cut: 208.1, art: "room", n: 12, eye: [495, 128, 119, 42], hands: [[5, 0.924, 0.834], [12, 0.56, 0.857], [20, 0.195, 0.88]], shoe: [0.975, 0.834],
       sweep: [[7, 0.446, 0.887], [8, 0.378, 0.889], [9, 0.267, 0.889], [10, 0.191, 0.889], [11, 0.104, 0.882], [12, 0.056, 0.873], [13, 0.021, 0.866], [14, 0.015, 0.863], [15, 0.017, 0.861]] },
-    DRAGON: { cut: 212.8, art: "dragon", n: 12, eye: [488, 142, 112, 47], hands: [[5, 0.824, 0.802], [12, 0.494, 0.815], [18, 0.164, 0.828]], shoe: [0.862, 0.802],
+    DRAGON: { cut: 212.8, art: "dragon", n: 12, eye: [488, 142, 112, 47], hands: [[6, 0.879, 0.809], [12, 0.591, 0.844], [17, 0.303, 0.88]], shoe: [0.925, 0.809],
       sweep: [[7, 0.456, 0.863], [8, 0.377, 0.87], [9, 0.314, 0.873], [10, 0.229, 0.87], [11, 0.174, 0.866], [12, 0.115, 0.859], [13, 0.088, 0.854], [14, 0.071, 0.847], [15, 0.069, 0.847], [16, 0.069, 0.847]] },
-    TIGER: { cut: 209.7, art: "tiger", n: 12, eye: [492, 134, 124, 112], hands: [[5, 0.843, 0.81], [11, 0.494, 0.82], [17, 0.144, 0.83]], shoe: [0.884, 0.81],
+    TIGER: { cut: 209.7, art: "tiger", n: 12, eye: [492, 134, 124, 112], hands: [[6, 0.934, 0.825], [11, 0.622, 0.86], [16, 0.311, 0.894]], shoe: [0.986, 0.825],
       sweep: [[7, 0.425, 0.877], [8, 0.369, 0.882], [9, 0.265, 0.88], [10, 0.198, 0.88], [11, 0.114, 0.875], [12, 0.07, 0.87], [13, 0.033, 0.863], [14, 0.025, 0.861], [15, 0.027, 0.859]] },
   }).map(([k, c]) => [k, Object.assign({ cut: 220, body: "art/dealers-v3/" + c.art + "-body.webp", blink: "art/dealers-v3/" + c.art + "-blink.webp",
     clips: { deal: "art/dealers-v3/" + c.art + "-deal.webp", collect: "art/dealers-v3/" + c.art + "-collect.webp" }, clipN: 25, clipCols: 5, clipW: 789, clipH: 532 }, c)]));
